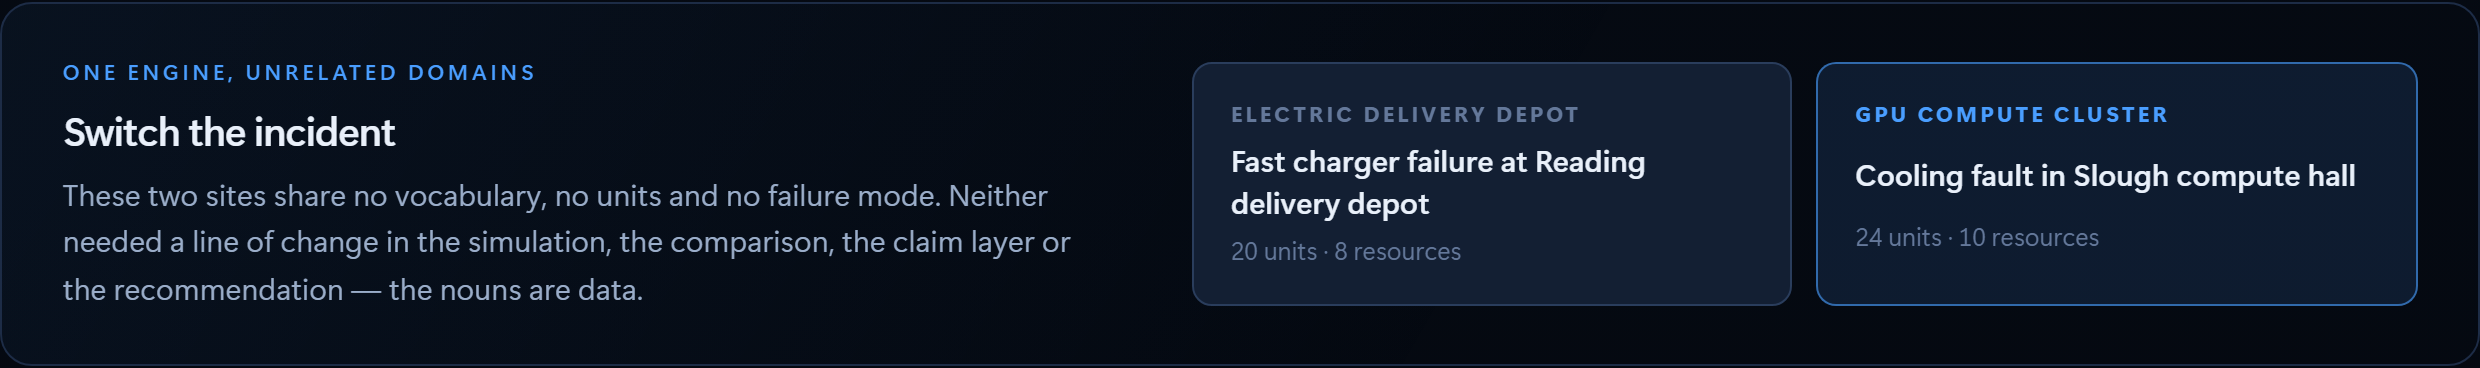
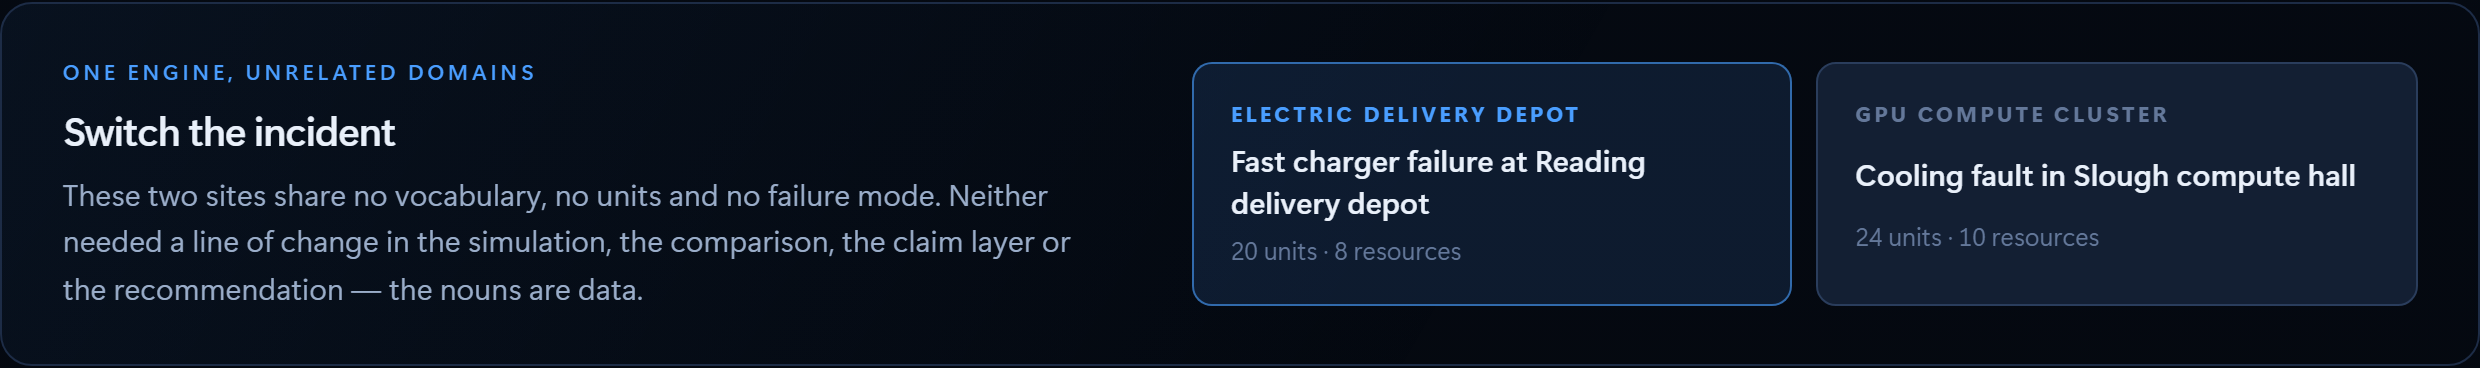
docs: lead with the boundary, not the fleet
Recentres the README on the thing that is actually distinctive — the hard line
between language and evidence — and demotes the electric fleet to one worked
example of it. The two-domain table now sits above the depot walkthrough, so a
reader meets a general engine before they meet vehicles.

Adds the "Try to fool it" section with a runnable curl, documents the probe and
scenario endpoints, links the new screenshots, and notes that fifteen seconds
of the demo video are an uncut live capture.

Known limitations gains three entries this work introduced: the internal type
names still carry the first domain's vocabulary, both scenarios price in
pounds, and the verifier checks numerals rather than claims about causation — a
paragraph can pass and still mislead in its wording.

Adds a "Prior work, and what is new here" section stating that the problem
framing and demonstration scenario come from earlier fleet work rather than
from nowhere, and listing what this implementation contributes. It carries a
marked note for the author to complete: whether any previous source code or
assets were reused. That is a claim only the author can make, so it is left
explicit rather than guessed at.

diff --git a/README.md b/README.md
@@ -6,7 +6,12 @@ An AI decision agent for operational incidents. A manager describes what broke; 
 the constraints, builds two response strategies, simulates the consequences of each, verifies
 every number it is about to show, and recommends one.
 
-> **The model can write the explanation. It is never allowed to invent the numbers.**
+> **Forkcast draws a hard boundary between language and evidence. The model can explain a
+> decision. It cannot invent the numbers behind it.**
+
+That boundary is the product. Everything else here is in service of it, and you can attack it
+yourself in the running app: [**write a figure it cannot support**](#try-to-fool-it) and watch the
+paragraph around it get discarded.
 
 | | |
 |---|---|
@@ -16,6 +21,8 @@ every number it is about to show, and recommends one.
 | **Secondary category** | Best Azure OpenAI / LLM-Powered App |
 | **Demo video** | [`./demo/demo.mp4`](./demo/demo.mp4) |
 | **Stack** | ASP.NET Core Minimal API · C# · Azure OpenAI · React + TypeScript + Vite · deterministic Monte Carlo · xUnit |
+| **Domains shipped** | An electric delivery depot and a GPU compute hall, on the same engine |
+| **Tests** | 150, `dotnet test` |
 
 ---
 
@@ -44,7 +51,30 @@ Forkcast splits the problem along the line where each tool is actually good.
 5. **Recommends**, under a stated rule, with the evidence attached.
 6. **Lets you challenge it.** Change an assumption and the simulation genuinely reruns.
 
-### The demo incident
+### Two domains, one engine
+
+Forkcast ships two incidents that share no vocabulary, no units and no failure mode. Switch
+between them in the interface. Neither required a line of change in the simulation, the
+comparison, the claim layer or the recommendation — the nouns are data, not code.
+
+| | Electric delivery depot | GPU compute hall |
+|---|---|---|
+| What is queued | 20 vehicles | 24 batch jobs |
+| Competing for | 8 charge points | 10 GPU nodes |
+| What failed | the 150 kW fast charger | two racks, chilled-water fault |
+| Hard deadline | last departure 06:00 | reporting cut-off 05:30 |
+| Measured in | kWh at kW | GPU-hours at GPU-hours/hour |
+| Do nothing | **60.9%** on-time departures | **57.8%** on-time completions |
+| Act | **97.2%** | **94.7%** |
+| Intervention | towed battery unit, £379 | burst capacity in the paired region, £483 |
+
+The engine's own strings follow the domain, which is what stops "it generalises" being an
+adjective. The depot reports *"2.6 vehicles never reach a free connector before their departure"*;
+the compute hall reports *"2.4 jobs never reach a free worker slot before their cut-off"*. Same
+code path, same sentence template, different nouns. There are tests asserting that neither
+domain's critical constraint contains the other's words.
+
+### The worked example
 
 At 18:40 the fast charger at an electric delivery depot fails. Twenty vehicles must depart by
 06:00, eight AC charge points remain, and six routes are priority.
@@ -122,6 +152,32 @@ Watch it work: the verification panel shows `8 verified claims · 0 unsupported 
 model ever invents a figure, that panel shows the rejected token, its context, and the fact that
 the deterministic summary was substituted.
 
+### Try to fool it
+
+A guarantee you have to take on trust is not much of a guarantee, so the app exposes the verifier
+directly. Paste any paragraph into the **Try to fool it** panel — or `POST` it to
+`/api/verification/probe` — and it reports a verdict on every number in it: which claim backs each
+figure, or which incident fact does, or that nothing does.
+
+```bash
+curl -s -X POST http://localhost:5199/api/verification/probe \
+  -H 'Content-Type: application/json' \
+  -d '{"submitted":"Reprioritising lifts on-time departures to 97.2%, avoiding £4,200 of penalties."}' \
+  | jq '{accepted, verdict, findings: [.findings[] | {token, supported, claimId}]}'
+```
+
+```
+97.2   supported    claim alternative-on-time
+4,200  unsupported  nothing produces this figure
+→ rejected; the deterministic summary is shown instead
+```
+
+It is the same `ClaimVerifier` instance and the same claim set the product applies to its own
+generated prose. There is no separate, friendlier check for visitors. Four worked examples ship
+with it — one invented figure among true ones, an entirely invented paragraph, a plausible
+rounding (`98%` when the run says `97.2%`), and an honest one that passes — and a test submits all
+four and asserts each behaves as its label promises.
+
 ---
 
 ## Running it
@@ -146,7 +202,7 @@ document at `/openapi/v1.json`.
 
 ```bash
 dotnet build          # 0 warnings — warnings are errors
-dotnet test           # 131 tests
+dotnet test           # 150 tests
 cd web && npm run build
 ```
 
@@ -176,6 +232,10 @@ is how unusual incident wording is read and how the explanation is written.
 | `POST /api/incidents/parse` | Incident text → structured incident |
 | `POST /api/simulations/run` | Simulate both plans, return the verified recommendation |
 | `POST /api/simulations/challenge` | Change one assumption, rerun, report the difference |
+| `POST /api/verification/probe` | Submit any paragraph to the claim verifier and get a verdict per number |
+| `GET /api/scenarios` | The shipped domains |
+
+Every simulation endpoint takes an optional `scenario` of `"fleet"` or `"compute"`.
 
 ```bash
 curl -s http://localhost:5199/api/demo/result | jq '.verification.verifiedClaims'
@@ -210,6 +270,16 @@ curl -s -X POST http://localhost:5199/api/simulations/challenge \
 
 ![Challenging the recommendation](demo/assets/07-challenge.png)
 
+**Try to fool it** — every number in a submitted paragraph gets a verdict:
+
+![The verifier probe](demo/assets/11-probe.png)
+
+**Switch the domain** — the same engine, an unrelated incident:
+
+![The domain switcher](demo/assets/12-domains.png)
+
+![The compute hall compared](demo/assets/13-compute-futures.png)
+
 Every screenshot is captured from the running application by
 [`web/scripts/capture.mjs`](web/scripts/capture.mjs). None of them is a mock-up.
 
@@ -218,7 +288,11 @@ Every screenshot is captured from the running application by
 **[`demo/demo.mp4`](demo/demo.mp4)** — 2:48, 1920×1080, H.264.
 
 Built with [HyperFrames](https://hyperframes.heygen.com) from the same captured screens, so the
-film shows the submitted application rather than a separate mock-up of it. Every figure spoken or
+film shows the submitted application rather than a separate mock-up of it. Fifteen seconds in its
+middle are an **uncut screen capture** — visible cursor, a real click on *Simulate*, the real
+wait, the real numbers arriving, then a real click on *Test assumption* — recorded by
+[`web/scripts/record-live.mjs`](web/scripts/record-live.mjs) driving the actual UI against the
+actual API. Every figure spoken or
 shown in it is one the engine returns at seed `20260728`, and the test
 `Published_demo_figures_hold` fails if the engine ever stops returning them.
 
@@ -245,7 +319,7 @@ src/
     Challenges/           the closed set of challengeable assumptions
     Ai/                   the language boundary, and its deterministic implementation
   Forkcast.Api/           Minimal API, DTO mapping, Azure OpenAI provider
-tests/Forkcast.Tests/     131 tests
+tests/Forkcast.Tests/     150 tests
 web/                      React + TypeScript + Vite, one page
 demo/                     screenshots and the demo video
 ```
@@ -266,6 +340,14 @@ problem does not need them, and each one would be another thing between a review
 - `Derived_seeds_do_not_depend_on_runtime_string_hashing`
 - `A_failing_language_model_does_not_take_the_decision_down`
 - `Failed_and_remaining_connectors_are_told_apart`
+- `The_critical_constraint_speaks_the_domain_language` — neither domain's constraint string
+  contains the other's nouns
+- `Published_compute_figures_hold_and_differ_from_the_fleet` — the second domain is not the first
+  one relabelled
+- `The_offered_examples_behave_as_their_labels_promise` — the verifier demonstration cannot start
+  teaching the wrong lesson
+- `The_analyser_and_the_rejection_list_agree` — the inspectable verdict and the enforced one are
+  the same computation
 
 ---
 
@@ -308,6 +390,38 @@ solve.
   the energy supplier, plus validation against measured outcomes before anyone trusted a number.
 - **Human operators remain responsible.** Forkcast recommends. It does not act, and it is not
   designed to be believed without the evidence it shows alongside.
+- **The domain types still carry the first domain's names.** `Vehicle` and `ChargePoint` are the
+  internal type names in both domains; only the user-facing vocabulary is data. That is a
+  deliberate trade to avoid a risky rename late in the build, and it is the next thing to fix.
+- **Both scenarios price in pounds.** The currency is not yet part of the vocabulary.
+- **The verifier checks numerals, not claims about causation.** A paragraph can pass the check and
+  still be misleading in its wording; the guarantee is specifically about figures.
+
+## Prior work, and what is new here
+
+Forkcast is informed by earlier work of mine on electric-fleet depot operations. The problem
+framing, the demonstration scenario and the conviction that a language model must not be allowed
+near the arithmetic all come from that experience rather than from nothing — and the brief this
+repository was built from stated them up front.
+
+What this implementation contributes:
+
+- **Claim-level provenance.** Every displayed figure is a typed claim carrying its source field,
+  its calculation method, its seed and its trial count, and it is only `Verified` if it still
+  round-trips to the simulation output it names.
+- **Rejection rather than correction.** Generated prose containing one unsupported figure is
+  discarded whole, and the verifier is exposed for anyone to attack.
+- **A domain-agnostic engine, demonstrated.** Two unrelated domains run on the same simulation,
+  comparison, claim and recommendation code, with the vocabulary supplied as data.
+- **Interactive assumption challenges.** A closed set of levers, each rerunning the simulation
+  rather than generating prose about it.
+- **A .NET and Azure implementation** with the language boundary off the critical path.
+
+> **For the author to complete before submission.** State plainly whether any source code, UI
+> assets or generated output from a previous project were reused here, and say so either way. If
+> the honest answer is that this implementation was written from scratch during the event from a
+> brief informed by prior work, say exactly that — it is both true and defensible. Do not claim
+> the concept originated during the event if it did not.
 
 ## Where this goes next
 
